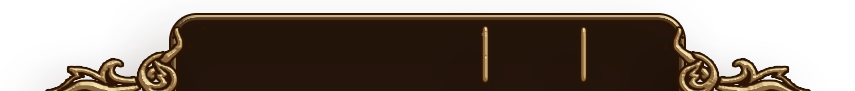
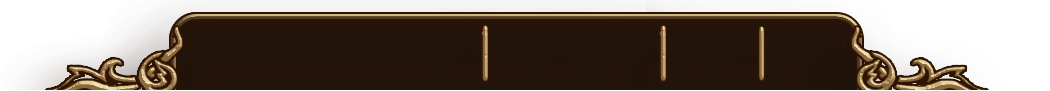
Added tutorial button to duel screen

diff --git a/client/src/components/Menus.tsx b/client/src/components/Menus.tsx
@@ -13,7 +13,7 @@ export function MenuDuel({
   duelId: bigint
 }) {
   const { dispatchSetting, settings, SettingsActions } = useSettings()
-  const { dispatchSetDuel } = usePistolsContext()
+  const { dispatchSetDuel, tutorialOpener } = usePistolsContext()
   const { dispatchSceneBack } = usePistolsScene()
 
   const _backToTavern = () => {
@@ -25,7 +25,8 @@ export function MenuDuel({
     dispatchSetting(SettingsActions.SFX_ENABLED, !settings.sfxEnabled)
   }
 
-  const _skipAnimation = () => {
+  const _openTutorial = () => {
+    tutorialOpener.open()
   }
 
   return (
@@ -33,16 +34,14 @@ export function MenuDuel({
       <div className='MenuBottomBackground NoDrag NoMouse'>
         <img className='MenuBackgroundImage' src='/images/ui/duel/bottom_nav.png'/>
       </div>
-      <Menu secondary compact className='YesMouse' size='huge' style={{ minHeight: '0' }}>
+      <Menu secondary compact className='YesMouse' size='huge' style={{ minHeight: '0', position: 'relative' }}>
         <Menu.Item className='button_duel' type='tavern' onClick={() => _backToTavern()}>
           Back to Tavern
         </Menu.Item>
 
-        {/* <Menu.Item disabled={!canSkip} onClick={() => _skipAnimation()}>
-          Skip animation
-        </Menu.Item> */}
-
-        {/* <SettingsMenuItem prefix='SFX' settingsKey={SettingsActions.SFX_ENABLED} currentValue={settings.sfxEnabled} /> */}
+        <Menu.Item className='button_duel' type='help' onClick={() => _openTutorial()}>
+          Help
+        </Menu.Item>
 
         <Menu.Item className='button_duel' type='icon'>
           <IconClick name='database' onClick={() => window?.open(makeDuelDataUrl(duelId), '_blank')} className='icon-control' />
@@ -51,6 +50,14 @@ export function MenuDuel({
         <Menu.Item className='button_duel' type='icon'>
           <IconClick name={settings.sfxEnabled ? 'volume up' : 'volume off'} onClick={() => _switchSfx()} className='icon-control'  />
         </Menu.Item>
+
+
+
+        {/* <Menu.Item disabled={!canSkip} onClick={() => _skipAnimation()}>
+          Skip animation
+        </Menu.Item> */}
+
+        {/* <SettingsMenuItem prefix='SFX' settingsKey={SettingsActions.SFX_ENABLED} currentValue={settings.sfxEnabled} /> */}
 
       </Menu>
     </div>

diff --git a/client/src/components/ui/duel/DuelTutorialOverlay.tsx b/client/src/components/ui/duel/DuelTutorialOverlay.tsx
@@ -22,8 +22,10 @@ function _DuelTutorialOverlay({ tutorialType, opener, onComplete }: DuelTutorial
   const { aspectWidth, aspectHeight } = useGameAspect()
   const { dispatchSetScene } = usePistolsScene()
   
-  const [hasTyped, setHasTyped] = useState(false)
-  const [selectedTutorialType, setSelectedTutorialType] = useState<DuelTutorialLevel | undefined>(tutorialType)
+  const [hasType, setHasType] = useState(false)
+  const [selectedTutorialType, setSelectedTutorialType] = useState<DuelTutorialLevel | undefined>(
+    tutorialType === DuelTutorialLevel.NONE ? undefined : tutorialType
+  )
   const [currentSlide, setCurrentSlide] = useState(0)
   const [currentTutorialIndex, setCurrentTutorialIndex] = useState(0)
   const [isTransitioning, setIsTransitioning] = useState(false)
@@ -35,11 +37,12 @@ function _DuelTutorialOverlay({ tutorialType, opener, onComplete }: DuelTutorial
   const totalDots = tutorialParts.reduce((total, tutorialId) => total + (TUTORIAL_DATA[tutorialId]?.slides?.length || 0), 0)
 
   useEffect(() => {
-    setSelectedTutorialType(tutorialType)
+    const effectiveTutorialType = tutorialType === DuelTutorialLevel.NONE ? undefined : tutorialType
+    setSelectedTutorialType(effectiveTutorialType)
     setCurrentSlide(0)
     setCurrentTutorialIndex(0)
     setCurrentDot(0)
-    setHasTyped(tutorialType ? true : false)
+    setHasType(effectiveTutorialType !== undefined)
   }, [tutorialType])
 
   useEffect(() => {
@@ -220,7 +223,7 @@ function _DuelTutorialOverlay({ tutorialType, opener, onComplete }: DuelTutorial
   const renderTutorialContent = () => {
     return (
       <>
-        {!hasTyped && (
+        {!hasType && (
           <CustomIcon icon name='left-arrow' onClick={() => setSelectedTutorialType(undefined)} size='big' disabled={false} className='YesMouse tutorialTopLeftArrow'/>
         )}        
         <h2 className="tutorialTitle">

diff --git a/client/styles/styles.scss b/client/styles/styles.scss
@@ -2301,11 +2301,31 @@ a.active.step:hover,
 }
 
 .button_duel[type="tavern"] {
-  width: aspect-width(9.8);
+  position: absolute !important;
+  bottom: aspect-width(-0.2);
+  right: aspect-width(0.4);
+  width: aspect-width(9);
+}
+
+.button_duel[type="help"] {
+  position: absolute !important;
+  bottom: aspect-width(-0.2);
+  right: aspect-width(-3.5);
+  width: aspect-width(4);
 }
 
 .button_duel[type="icon"] {
-  width: aspect-width(2.9);
+  position: absolute !important;
+  bottom: aspect-width(-0.3);
+  width: aspect-width(2.5);
+
+  &:nth-of-type(1) {
+    right: aspect-width(-6.4);
+  }
+
+  &:nth-of-type(2) {
+    right: aspect-width(-9);
+  }
 }
 
 .button_duel[type="icon-vertical"] {

diff --git a/client/src/components/scenes/ScDuelists.tsx b/client/src/components/scenes/ScDuelists.tsx
@@ -13,7 +13,6 @@ import { useQueryChallengeIds } from '/src/stores/challengeQueryStore'
 import { useAccount } from '@starknet-react/core'
 import { LiveChallengeStates } from '/src/utils/pistols'
 import DuelTutorialOverlay from '../ui/duel/DuelTutorialOverlay'
-import { DuelTutorialLevel } from '/src/data/tutorialConstants'
 
 export default function ScDuelists() {
   const { address } = useAccount()

diff --git a/client/src/components/scenes/Duel.tsx b/client/src/components/scenes/Duel.tsx
@@ -517,7 +517,7 @@ export default function Duel({
         </div>
       </div>
 
-      {isTutorial && <DuelTutorialOverlay tutorialType={tutorial} opener={tutorialOpener} />}
+      <DuelTutorialOverlay tutorialType={tutorial ? tutorial : undefined} opener={tutorialOpener} />
 
       {/* {duelProgress &&
         <div className='CenteredPanel'>
